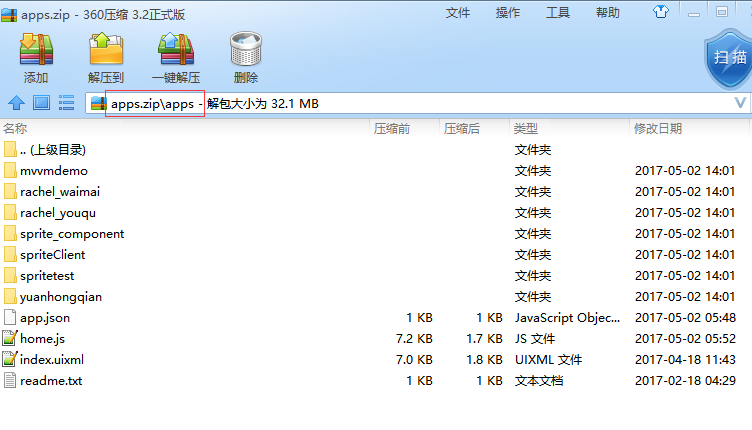
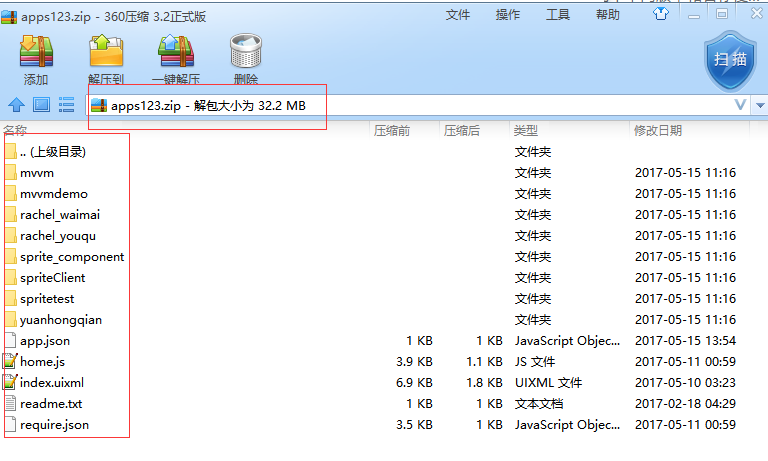
x

Changed region(s): [[0.0, 0.0, 1.0, 0.9674], [0.5199, 0.7256, 0.5811, 0.9372]]

diff --git a/docs/gridmenu.md b/docs/gridmenu.md
@@ -258,7 +258,7 @@ gridmenu1.loadData(json);
 > [getId(): string  获取UI组件Id标识](https://gitdocument.exmobi.cn/sprite-api/ggff.html#ptdom_19) 
 
 
-**loadData(jsonData:Object):void**
+**loadData(jsonData:Object,isrefresh:boolean):void**
 
 <code>注入网格数据</code>
 
@@ -277,6 +277,12 @@ jsonData，json格式如下：
 > -  tip：网格气泡
 > 
 > -  isSmallTip：是否显示圆点气泡
+
+isrefresh：[true,false]
+
+默认：true
+
+是否内部刷新，如果页面上有多个gridmenu控件，可以设置false，然后在组件外部统一刷新dom。 可选
 
 返回值： 无
 

diff --git a/docs/pluginupdate.md b/docs/pluginupdate.md
@@ -6,7 +6,7 @@
 
 pluginupdate主要用于应用资源升级，该组件提供升级进度效果，封装了版本请求和资源下载请求，下载完成后自动解压资源目录。  
 
-使用该升级组件需要把资源包压缩成如图格式，资源包目录名必须为apps:
+使用该升级组件需要把资源包压缩成如图格式，资源包目录名直接为更目录:
 
 <img src="image/pluginupdate_1.png"/> 
 
